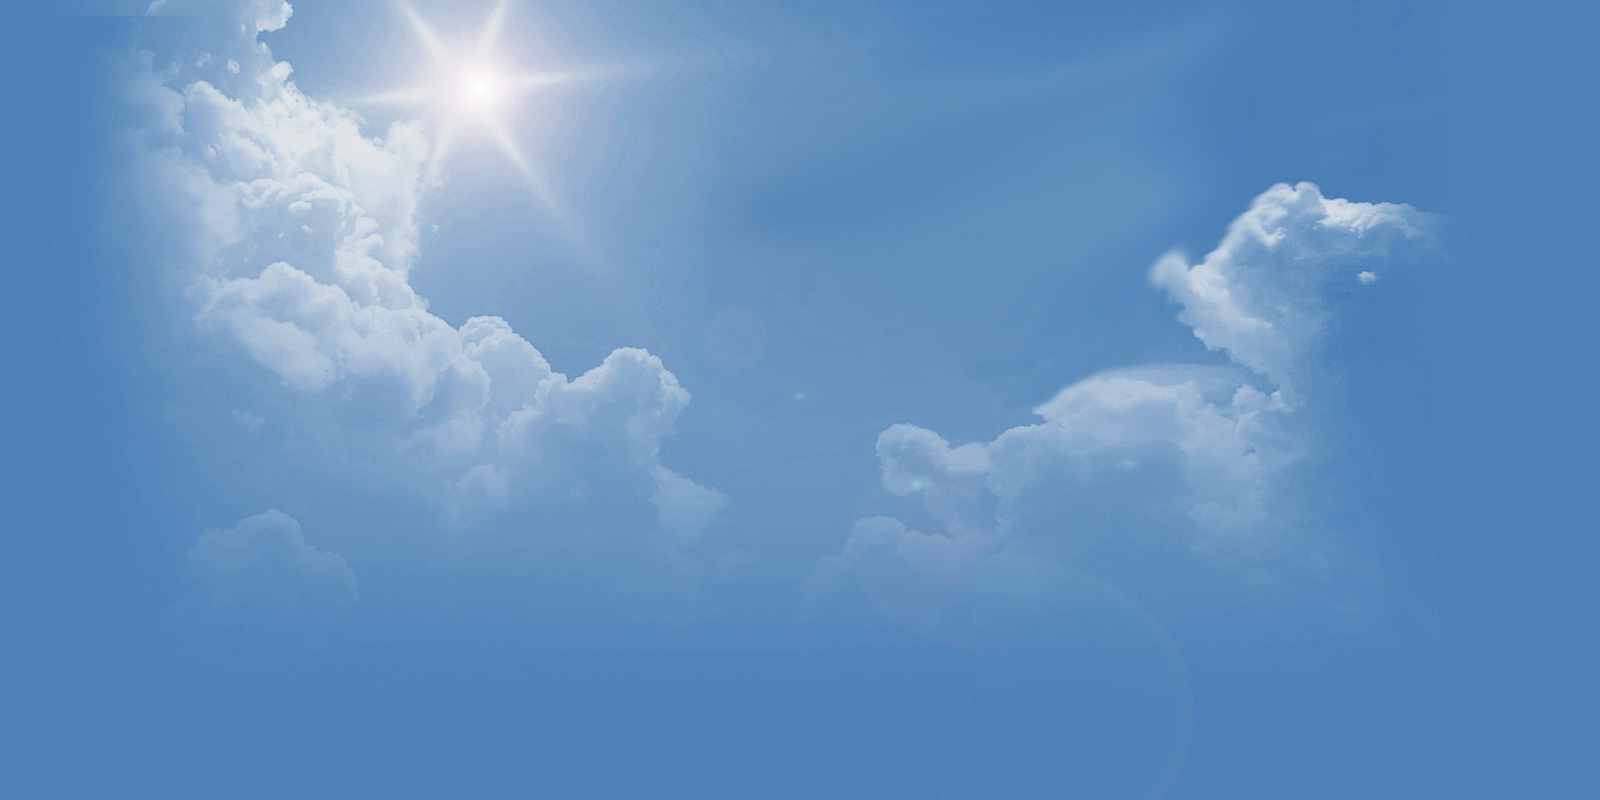
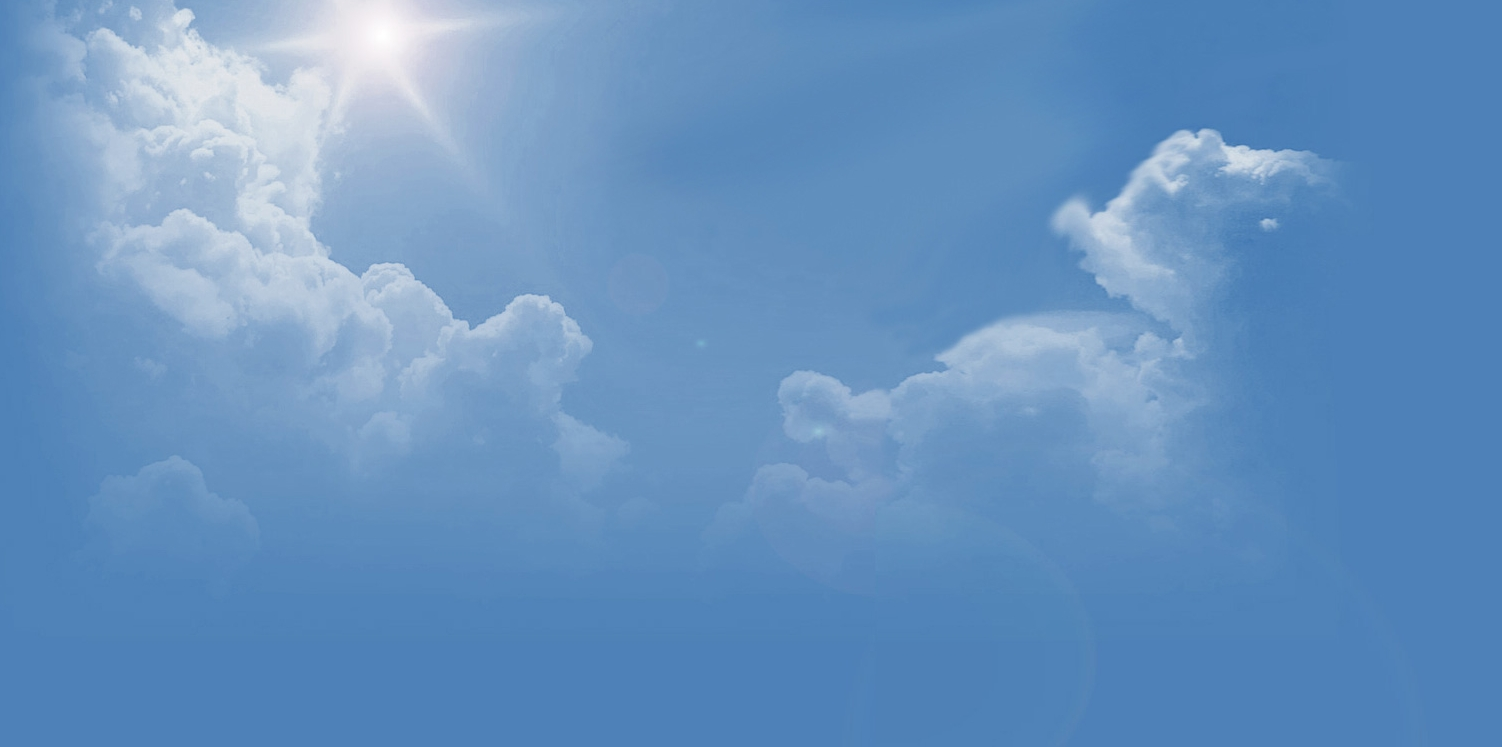
Sweet CSS work

diff --git a/public/stylesheets/application.css b/public/stylesheets/application.css
@@ -1,7 +1,83 @@
+body {
+	background: url(../images/webbackground.png) -150px -5px no-repeat;
+	background-color: #4E81B8;	
+	border-radius: 10px;
+	-moz-border-radius: 10px;
+}
+
 div.page-header h1.app-name {
     text-indent: -10000px;
-    background: url(../images/EMAPlogo.png) no-repeat;
-    padding: 0; margin: 0;
+    background: url(../images/EMAPlogo.png) 70px 5px no-repeat;
+    padding: 10px 10px 10px 10px; margin: 0;
     height: 62px;
+}
 
+a:link {
+	color: #235;
+	background: none;
+	border-bottom: 1px solid #235;
+}
+
+a:visited {
+	color: #193440;
+	background: none;
+	border-bottom: #193440;
+}
+
+li {
+	margin-left: 0;
+}
+td#main-nav-container {
+	border-radius: 15px;
+	-moz-border-radius: 15px;
+}
+
+td#content-container {
+	border-radius: 15px;
+	-moz-border-radius: 15px;
+}
+.card {
+	border-radius: 6px;
+	-moz-border-radius: 6px;
+}
+
+.button {
+	border-radius: 3px;
+	-moz-border-radius: 3px;
+}
+
+div.aside {
+	border-radius: 15px;
+	-moz-border-radius: 15px;
+}
+
+#main-nav-container {
+	width: 1%;
+	background: #B6C9DA;
+	border-bottom: #FCFFF5;
+}
+
+.main-nav {
+	padding: 40px 0;
+}
+
+.main-nav a {
+	border-bottom: 0px solid #FCFFF5;
+	/border-radius: 6px;/
+	/-moz-border-radius: 6px;/
+}
+
+.main-nav li.current a {
+	background: #FCFFF5 url(../images/100-B6A9DA-FCFEF5-H.png) repeat-y;
+}
+
+.main-nav a:hover {
+	background: #FCFFF5 url(../images/100-B6A9DA-FCFEF5-H.png) repeat-y;
+}
+
+.front-page .welcome-message {
+	border-radius: 10px;
+	-moz-border-radius: 10px;
+	background-color: #EDEDED;
+	background-image: url(../images/50-B6C9DA-EDEDED.png);
 }
